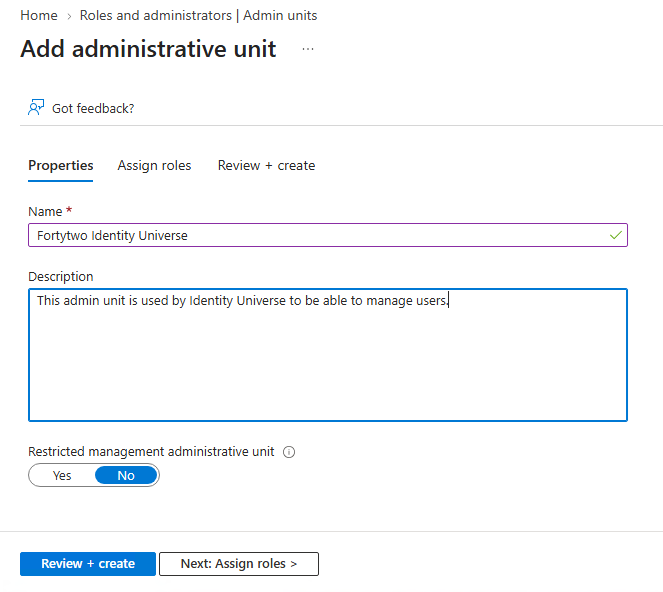
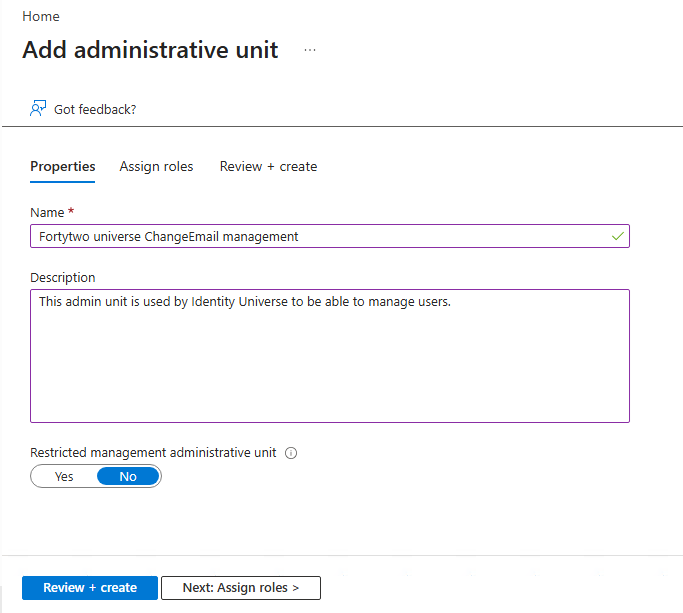
docs: GroupLink Deploy and use

diff --git a/docs/identity-universe/collections/deployuse/group-link-entrapermissions.md b/docs/identity-universe/collections/deployuse/group-link-entrapermissions.md
@@ -1,0 +1,78 @@
+#  Group Link Entra write permissions
+
+The Group Provisioning app needs explicit write permissions to update group membership. You can grant these permissions in several ways:
+-	[Make the Group Provisioning app the group owner](#make-the-group-provisioning-app-the-group-owner)
+-	[Create an Administrative Unit where the Group Provisioning app can manage members](#create-an-administrative-unit)
+-	[Grant the Group Provisioning app the GroupMember.ReadWrite.All permission](#grant-the-groupmemberreadwriteall-permission)
+
+Select one option that suits you.
+
+## Make the Group Provisioning app the group owner
+
+You can assign the Enterprise app as an owner to the groups you want it to manage. In the Entra portal, find the group, click **Owners** and **+Add owners**. Select **Enterprise applications** and the **Fortytwo Universe – Group Provisioning** app. Mark it and click **Select**.
+
+![Enterprise app as group owner](../media/grouplink-groupowner.png)
+
+The user must be at least **Groups Administrator** to be able to add group owners.
+
+## Create an Administrative Unit
+
+Entra does not allow dynamic queries on admin units targeting groups. It is not possible to have an attribute on the group itself and automatically have it included in the scope of the admin unit. Adding and removing groups is still a manual task.
+
+In Microsoft Entra admin center, navigate to **Roles & admins** and **Admin units**. Click **+Add**.
+
+![](../media/au-1.png)
+
+Give your admin unit a descriptive name and click **Review + create**. Click **Review + create** again without adding any roles (enterprise applications can't be assigned permissions at create). Click **Create**.
+
+![](../media/au-2.png)
+
+Go to **Roles and administrators** and click **Groups Administrator**.
+
+![](../media/au-3.png)
+
+Click **+Add assignments** and search for the app **Fortytwo universe - Group Provisioning**. Click **Add**.
+
+![](../media/au-4.png)
+
+Under **Groups**, click **+Add** and add all groups Fortytwo universe should be able to manage.
+
+![](../media/au-5.png)
+
+## Grant the GroupMember.ReadWrite.All permission
+
+You can grant the Group Provisioning app the permission to write all group members. The downside is that an admin in Identity Universe can take over any group with manual members in Entra. If you do not have complete trust between Entra administrators and Identity Universe administrators, this option is probably not for you.
+
+The Entra portal does not allow you to add permissions to an Enterprise application. You must use PowerShell for this.
+
+``` Powershell
+Connect-MgGraph -Scopes "Application.Read.All","AppRoleAssignment.ReadWrite.All"
+
+# Get the Enterprise Application
+$sp = Get-MgServicePrincipal -Filter "displayName eq 'Fortytwo universe - Group Provisioning'"
+
+# Get Microsoft Graph
+$graph = Get-MgServicePrincipal -Filter "appId eq '00000003-0000-0000-c000-000000000000'"
+
+# Get the GroupMember.ReadWrite.All application permission
+$permission = $graph.AppRoles |
+    Where-Object {
+        $_.Value -eq "GroupMember.ReadWrite.All" -and
+        $_.AllowedMemberTypes -contains "Application"
+    }
+
+# Grant the permission
+$params = @{
+    PrincipalId = $sp.Id
+    ResourceId  = $graph.Id
+    AppRoleId   = $permission.Id
+}
+
+New-MgServicePrincipalAppRoleAssignment `
+    -ServicePrincipalId $sp.Id `
+    -BodyParameter $params
+```
+
+The result is one additional permission on the Enterprise app.
+
+![Permission ReadWrite.All added](../media/grouplink-readwriteall.png)

diff --git a/docs/identity-universe/change-email/deployuse/entra.md b/docs/identity-universe/change-email/deployuse/entra.md
@@ -7,15 +7,19 @@ Change email will require write permissions to Entra to be able to update attrib
 In this step, we will show how to limit permissions using Administrative Units in Entra. We will assume you have some kind of identifier on your users you can use to scope your users into an admin unit.
 
 In Microsoft Entra admin center, navigate to **Roles & admins** and **Admin units**. Click **+Add**.
+
 ![](../media/au-1.png)
 
 Give your admin unit a descriptive name and click **Review + create**. Click **Review + create** again without adding any roles (enterprise applications can't be assigned permissions at create). Click **Create**.
+
 ![](../media/au-2.png)
 
 Find your admin unit and click **Properties**. Change **Membership type** to **Dynamic User**.
+
 ![](../media/au-3.png)
 
 Click **Add dynamic query** and create a query that would include all users in scope for identity universe. In this example, all users with an EmployeeId starting with **E** is in scope. Click **Save**.
+
 ![](../media/au-4.png)
 
 Here are some more examples of how you can create your query.

diff --git a/docs/identity-universe/collections/deployuse/group-link-iu.md b/docs/identity-universe/collections/deployuse/group-link-iu.md
@@ -1,0 +1,15 @@
+# Group Link in Portal
+
+To link a collection to a group in Entra, navigate to the collection and select **Entra group**. Paste the Object ID of the group into **Entra group object ID**.
+
+![](../media/grouplink.png)
+
+Identity Universe will read the group members in Entra and provide a summary of what will change in the group. If there are group members who cannot be members of a group, for example they lack an account in Entra, this is shown.
+
+![](../media/grouplink-warning.png)
+
+If you are happy with the result, click **Link group**.
+
+You can now see that group members are synchronizing, so if they change in Entra, Identity Universe will detect and fix it. You can also pause synchronization and remove the link if needed.
+
+![](../media/grouplink-syncing.png)

diff --git a/docs/identity-universe/collections/deployuse/migration-patterns.md b/docs/identity-universe/collections/deployuse/migration-patterns.md
@@ -1,3 +1,5 @@
+# Collections Migration patterns
+
 ## Migration patterns
 
 This guide describes recommended patterns for migrating existing access models to Identity Universe collections.

diff --git a/docs/identity-universe/collections/deployuse/group-link-deploy.md b/docs/identity-universe/collections/deployuse/group-link-deploy.md
@@ -1,4 +1,4 @@
-# Group Link
+# Group Link Preparations
 
 ## Existing Entra ID groups
 
